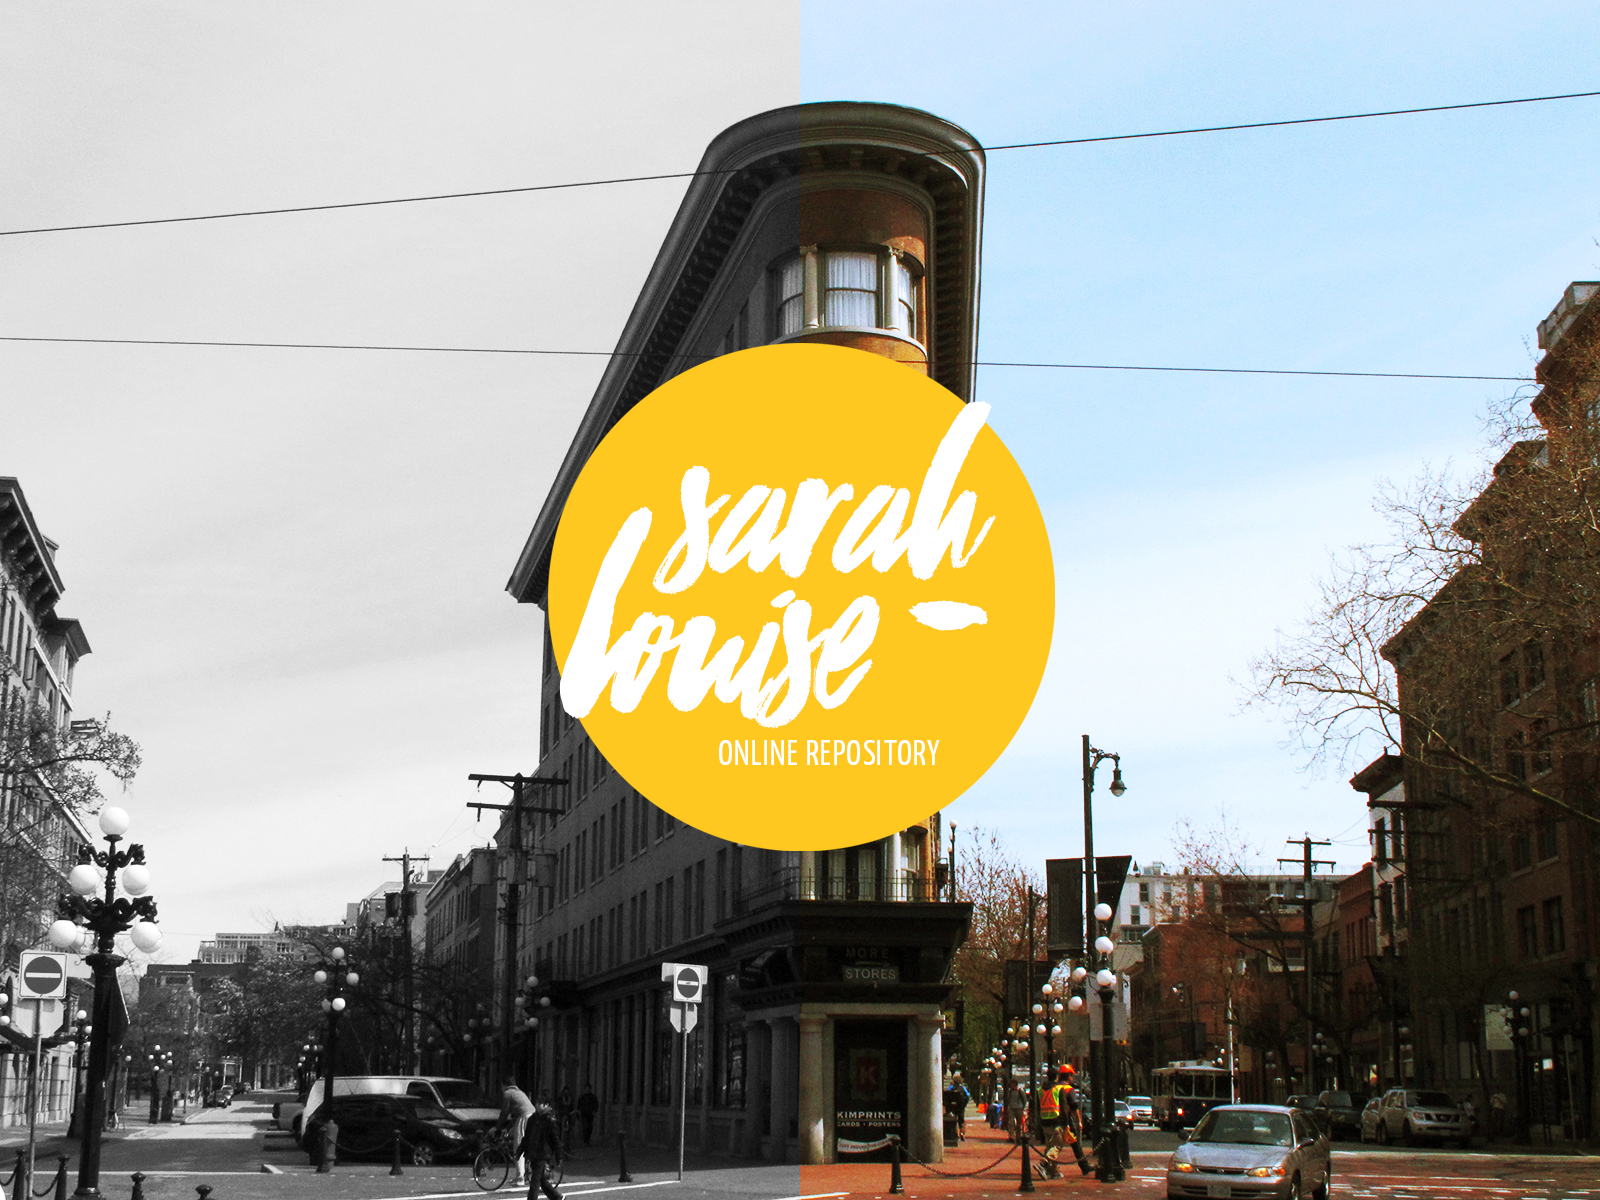
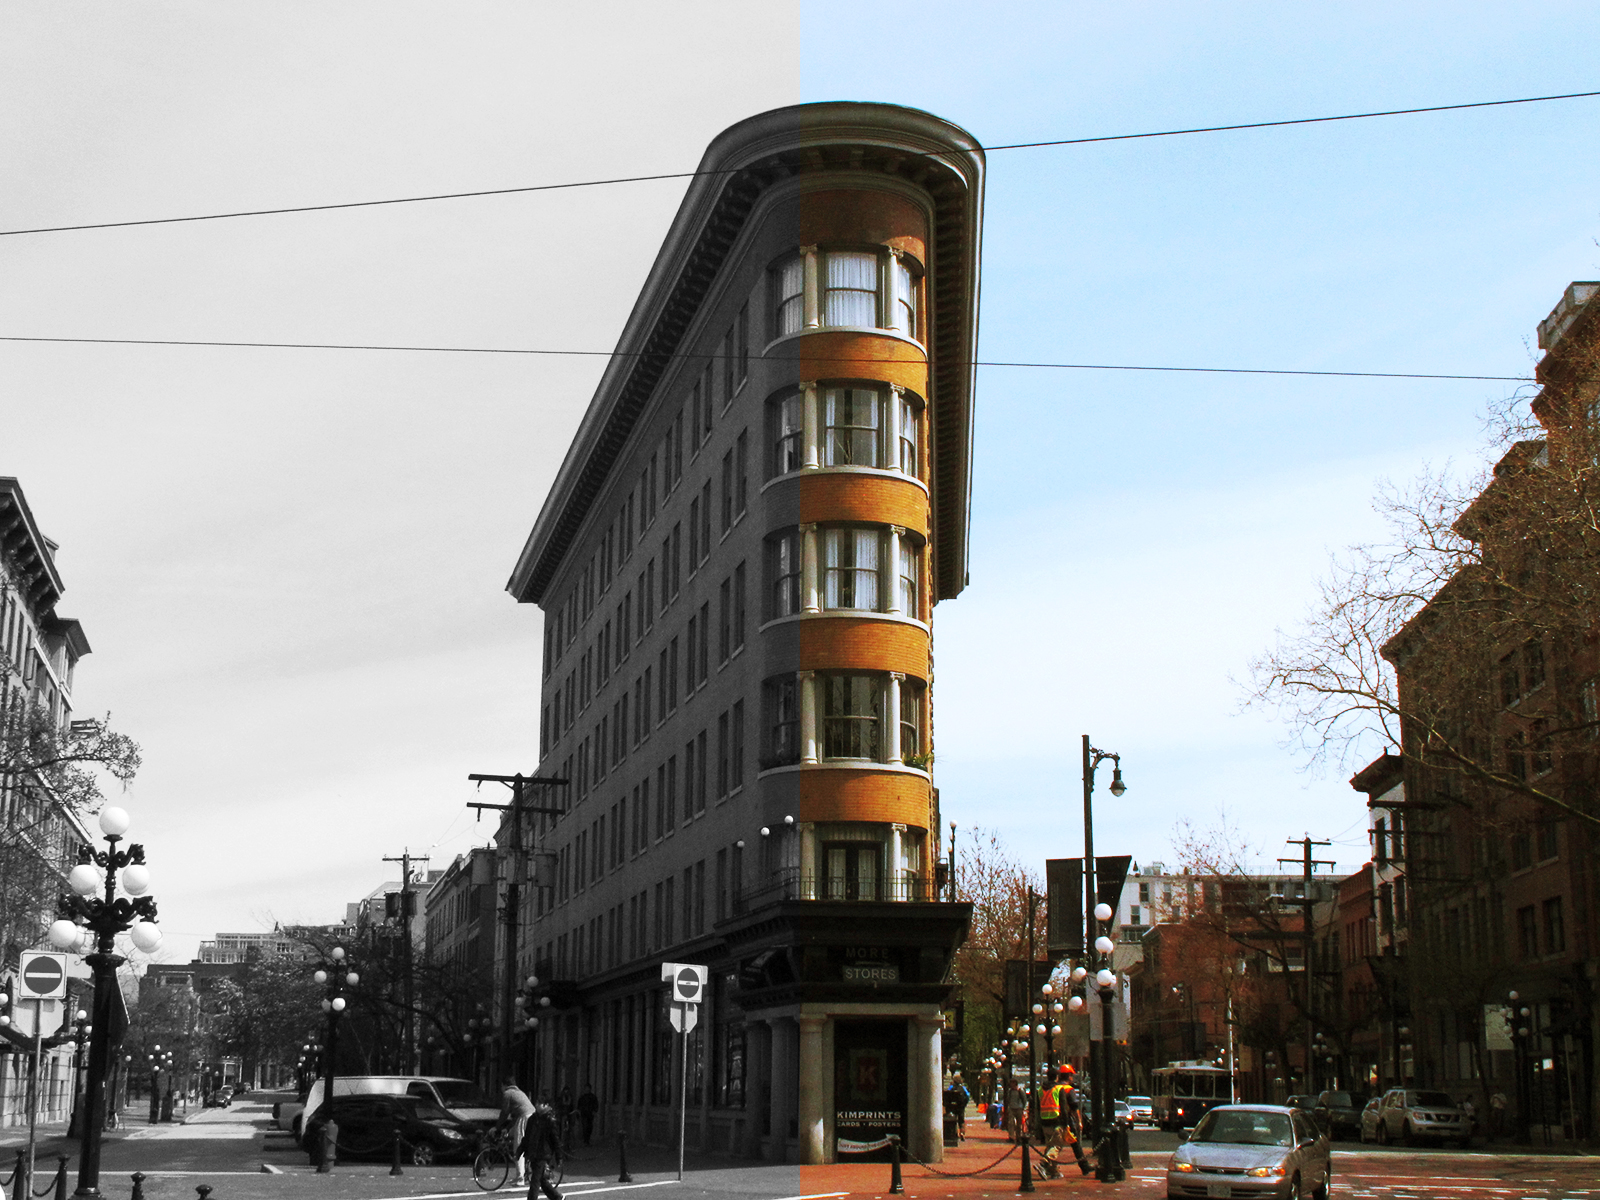
Changed background of header

Changed region(s): [[0.3438, 0.2775, 0.6562, 0.7092]]

diff --git a/app/scss/style.scss b/app/scss/style.scss
@@ -9,6 +9,13 @@ $light-base-color: #eeecec;
 $dark-base-color: #e3e3e3;
 $color-pop: #ff9703;
 
+@mixin centerer {
+  position: absolute;
+  top: 50%;
+  left: 50%;
+  transform: translate(-50%, -50%);
+}
+
 @mixin default-btn {
   @include display(inline-block);
   background: $color-pop;
@@ -51,8 +58,8 @@ $color-pop: #ff9703;
 
 
 body{
-	margin:0;
-  background: $dark-base-color;
+	margin: 0;
+  background: #fff;
 }
 h1{
   font-family: rounded;
@@ -92,15 +99,15 @@ header{
   background-size: cover;
   background-position: center;
   height: 100vh;
-  padding-top: 100px;
+  padding: 1px;
 
-  h1 {
-    font-family: worthwhile;
-    font-size: 5em;
+  img {
+    @include centerer;
+    width: em(500);
+
   }
 
   nav {
-    margin-top: 65vh;
     text-align: center;
     top: 0;
     left: 0;
@@ -229,6 +236,16 @@ section{
       @include default-btn;
       float: right;
     }
+  }
+}
+
+.info-divider {
+  background: $light-base-color;
+  text-align: center;
+  padding: 50px 0;
+
+  h4 {
+    margin: 0;
   }
 }
 

diff --git a/app/css/style.css b/app/css/style.css
@@ -24,7 +24,7 @@ html {
 
 body {
   margin: 0;
-  background: #e3e3e3; }
+  background: #fff; }
 
 h1 {
   font-family: rounded;
@@ -65,12 +65,14 @@ header {
   background-size: cover;
   background-position: center;
   height: 100vh;
-  padding-top: 100px; }
-  header h1 {
-    font-family: worthwhile;
-    font-size: 5em; }
+  padding: 1px; }
+  header img {
+    position: absolute;
+    top: 50%;
+    left: 50%;
+    transform: translate(-50%, -50%);
+    width: 31.25em; }
   header nav {
-    margin-top: 65vh;
     text-align: center;
     top: 0;
     left: 0;
@@ -220,6 +222,13 @@ section {
     color: #fff;
     font-family: rounded;
     float: right; }
+
+.info-divider {
+  background: #eeecec;
+  text-align: center;
+  padding: 50px 0; }
+  .info-divider h4 {
+    margin: 0; }
 
 .side-image {
   background: #F9F9F9; }

diff --git a/app/index.html b/app/index.html
@@ -27,6 +27,7 @@
 
 	<header role="header">
 		<div class="container" id="nav-container">
+			<img src="../images/header-title.png">
 			<nav>
 				<ul>
 					<li><a href="#about">About</a></li>
@@ -48,6 +49,7 @@
 				</ul>
 			</div>
 		</section>
+		<div class="info-divider"><h4>Selected Works</h4></div>
 		<section id="work">
 			<ul>
 				<li class="hover-tile-outer" id="li1">
